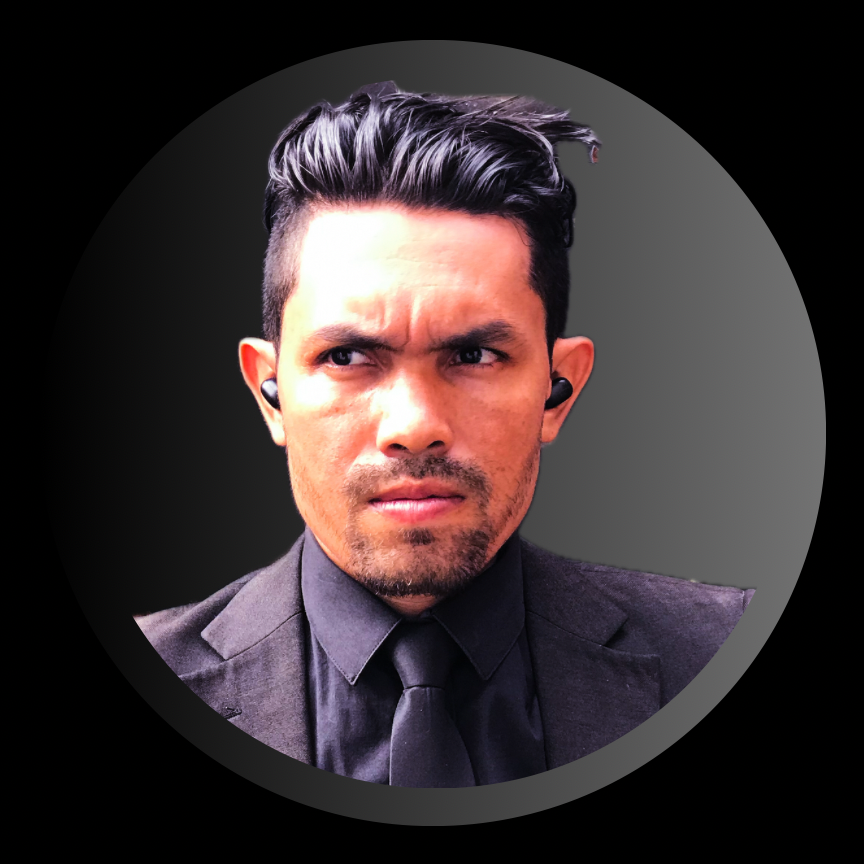
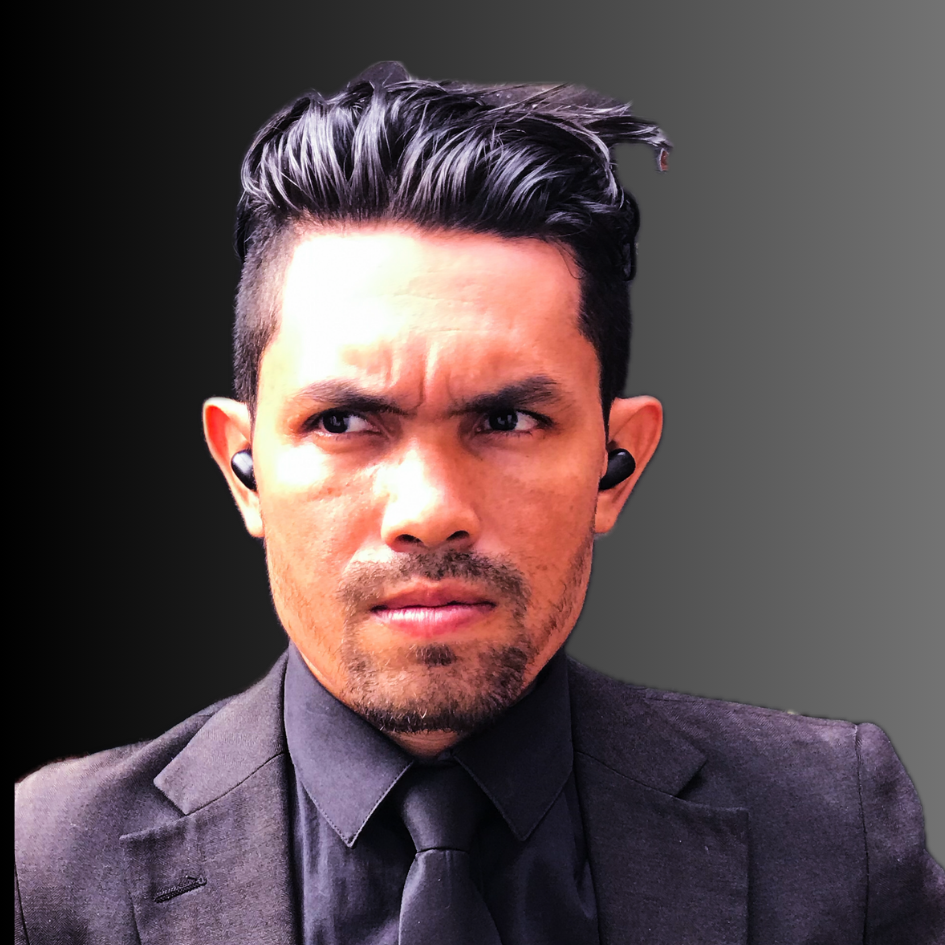
Alteracao da foto

diff --git a/index.html b/index.html
@@ -34,7 +34,7 @@
             <header class="header box">
                 <div class="header__left">
                     <div class="header__photo">
-                        <img class="header__photo-img" src="assets/img/profile.png" alt="">
+                        <img class="header__photo-img" src="assets/img/profile.png" alt="Anildo Gomes">
                     </div>
                     <div class="header__base-info">
                         <h4 class="title titl--h4">ANILDO GOMES</h4>

diff --git a/assets/styles/style.css b/assets/styles/style.css
@@ -800,7 +800,7 @@ button:focus {
 .header__photo {
   background-color: #fff;
   border: 0.375rem solid #fff;
-  border-radius: 5rem;
+  border-radius: 2.9375rem;
   box-shadow: 0 0.5rem 1.5rem rgba(0, 0, 0, 0.05);
   margin-top: -4.125rem;
   height: 10.125rem;
